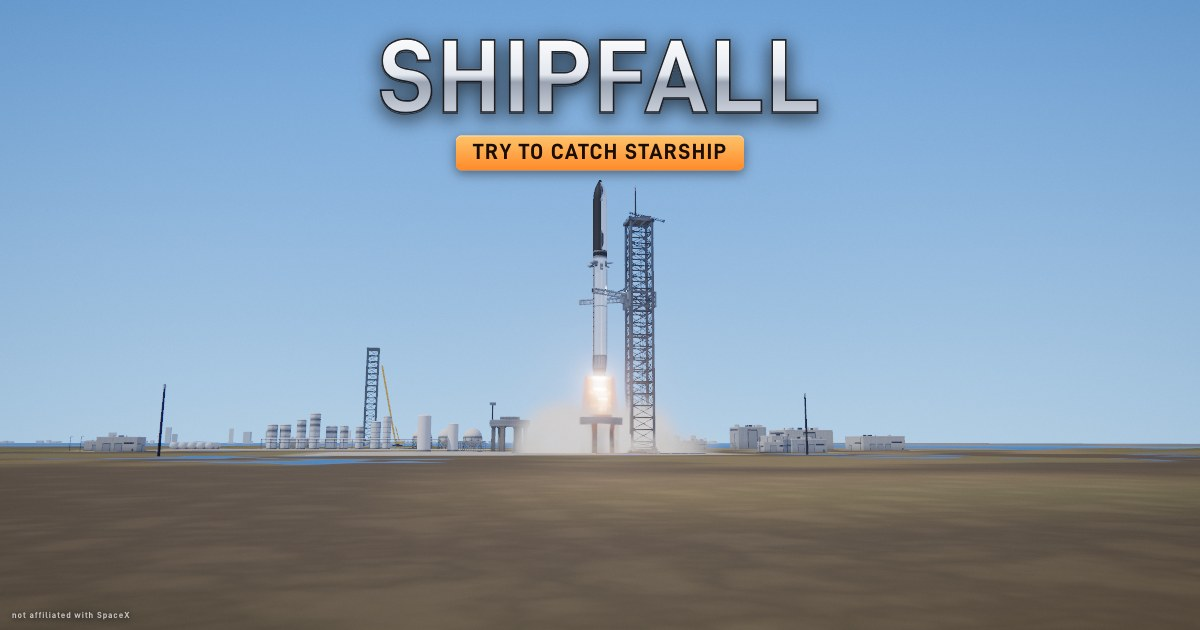
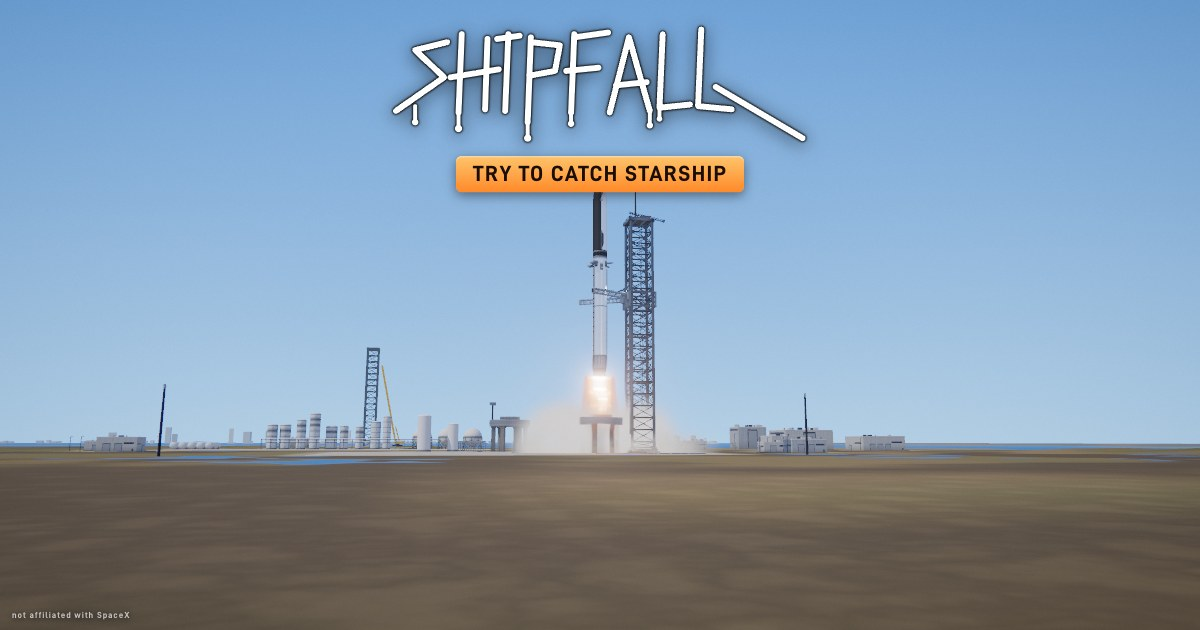
Custom ShipFall tag for the wordmark and card title

Changed region(s): [[0.3083, 0.0302, 0.7092, 0.3317]]

diff --git a/styles.css b/styles.css
@@ -346,7 +346,7 @@ body.tall #flight-over { align-items: start; padding-top: 16px; padding-bottom: 
 .overlay.home { --hero-y: 43%; display: block; padding: 0; pointer-events: none;
   background: linear-gradient(180deg, rgba(3, 4, 7, 0.55), rgba(3, 4, 7, 0) 24%, rgba(3, 4, 7, 0) 55%, rgba(3, 4, 7, 0.82)); }
 .home > * { pointer-events: auto; }
-.wordmark { position: absolute; top: 26px; left: 34px; margin: 0; font-size: 34px; line-height: 1; font-weight: 700; letter-spacing: -0.005em; color: var(--ink); text-shadow: 0 2px 18px rgba(0, 0, 0, 0.55); }
+.wordmark { position: absolute; top: 18px; left: 26px; margin: 0; font-size: 34px; line-height: 1; font-weight: 700; letter-spacing: -0.005em; color: var(--ink); text-shadow: 0 2px 18px rgba(0, 0, 0, 0.55); }
 .modes { display: flex; gap: 2px; padding: 3px; border-radius: 10px; border: 1px solid rgba(255, 255, 255, 0.16); background: rgba(10, 11, 13, 0.55); -webkit-backdrop-filter: blur(10px); backdrop-filter: blur(10px); }
 .modes button { white-space: nowrap; font: 600 15px var(--display); letter-spacing: 0.02em; color: #c9ced6; background: none; border: 0; border-radius: 7px; padding: 9px 18px; cursor: pointer; transition: background 0.15s, color 0.15s; }
 .modes button:hover { color: var(--ink); background: rgba(255, 255, 255, 0.08); }
@@ -398,7 +398,10 @@ body.embed .how .taps { display: inline; }
 
 /* Small embeds and phones: the title on top, the vehicle, then the same column, tighter. */
 body.compact .overlay.home { --hero-y: 36%; }
-body.compact .wordmark { top: 14px; left: 16px; font-size: 27px; }
+body.compact .wordmark { top: 10px; left: 12px; }
+/* The ShipFall tag (public/shipfall-tag.svg): white strokes, shadowed so it reads over sky and ground. */
+.wordmark img { display: block; height: 58px; width: auto; filter: drop-shadow(0 2px 6px rgba(0, 0, 0, 0.55)); }
+body.compact .wordmark img { height: 44px; }
 body.compact .pick-arrow { width: 44px; height: 44px; margin: -22px 0 0 -22px; }
 body.compact .pick-arrow[data-step='-1'] { transform: translateX(min(-120px, -26vw)); }
 body.compact .pick-arrow[data-step='1'] { transform: translateX(max(120px, 26vw)); }

diff --git a/src/game.html b/src/game.html
@@ -60,7 +60,7 @@
   </div>
 
   <section id="title-screen" class="overlay home">
-    <h1 class="wordmark">shipfall</h1>
+    <h1 class="wordmark"><img src="/shipfall-tag.svg" alt="ShipFall" /></h1>
     <div class="home-top">
       <div class="map-pick" role="group" aria-label="Launch site">
         <button type="button" data-map="starbase" aria-pressed="true">Starbase</button>
